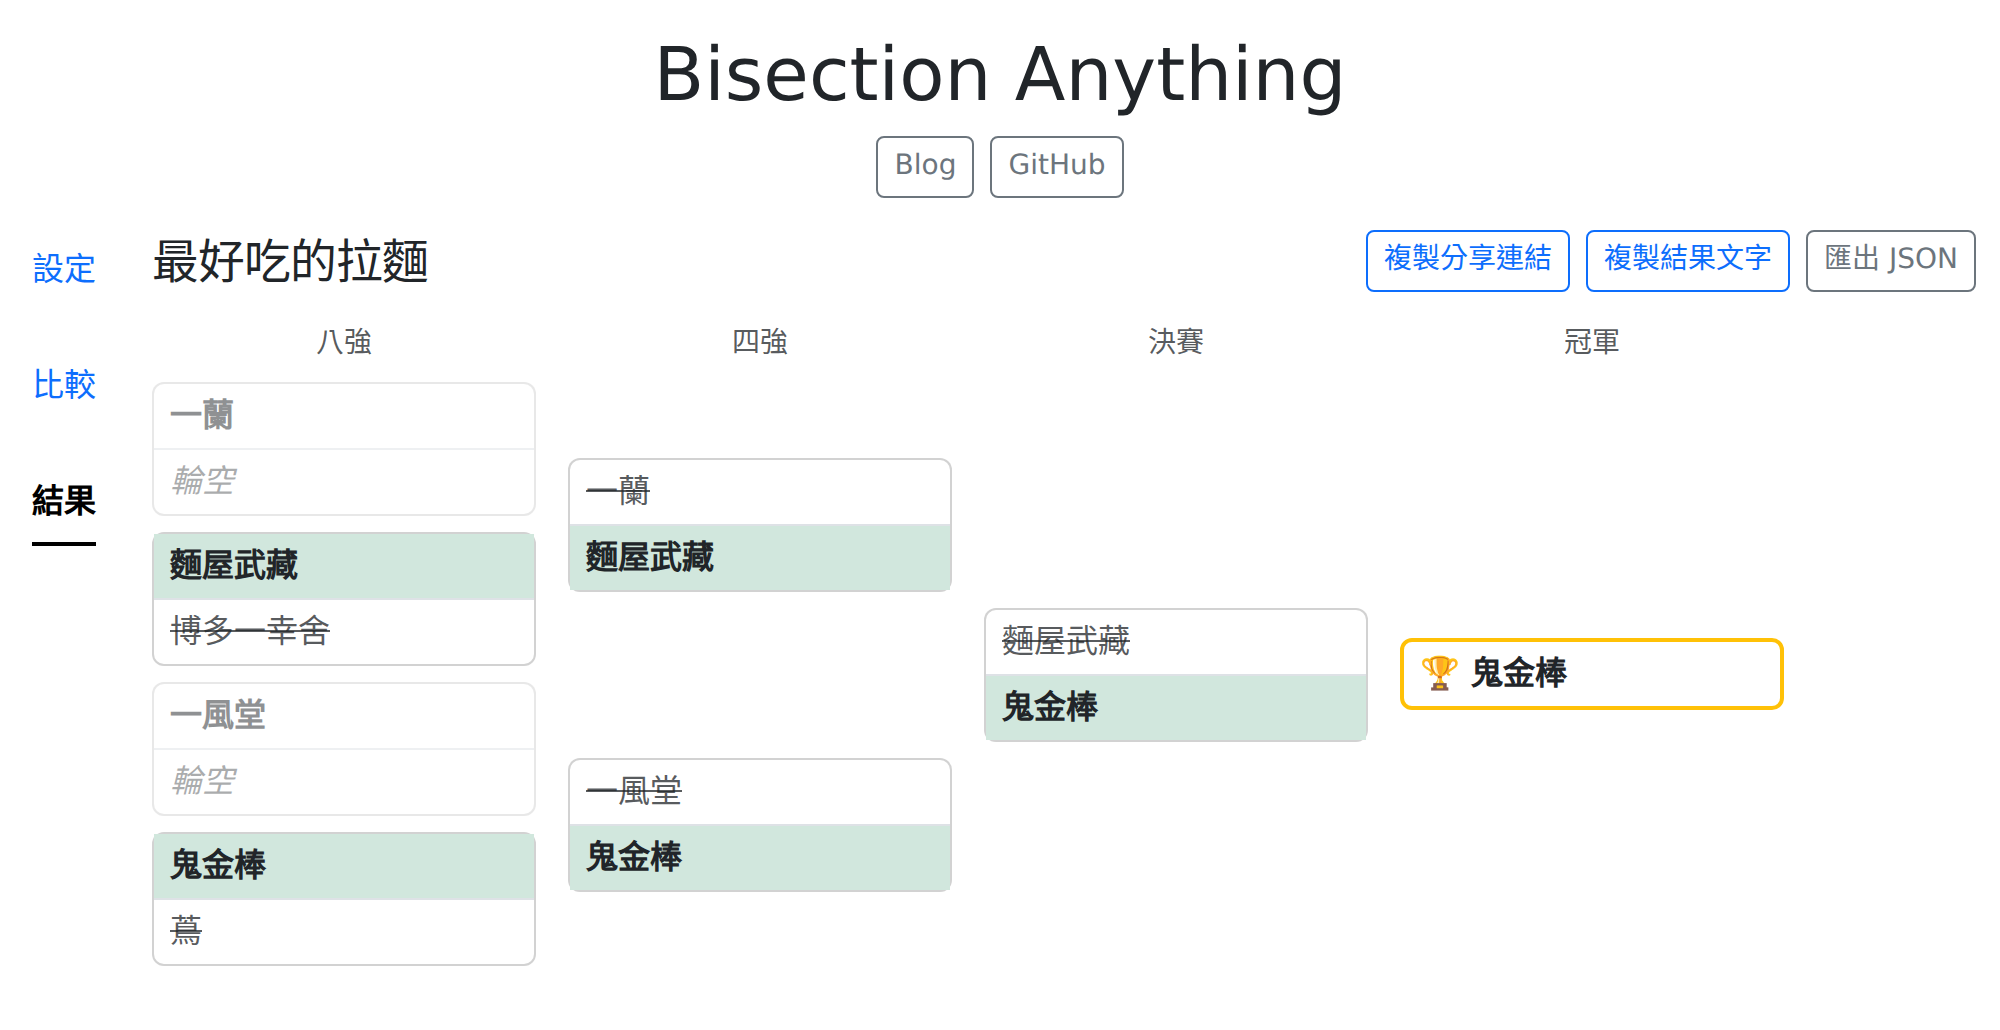
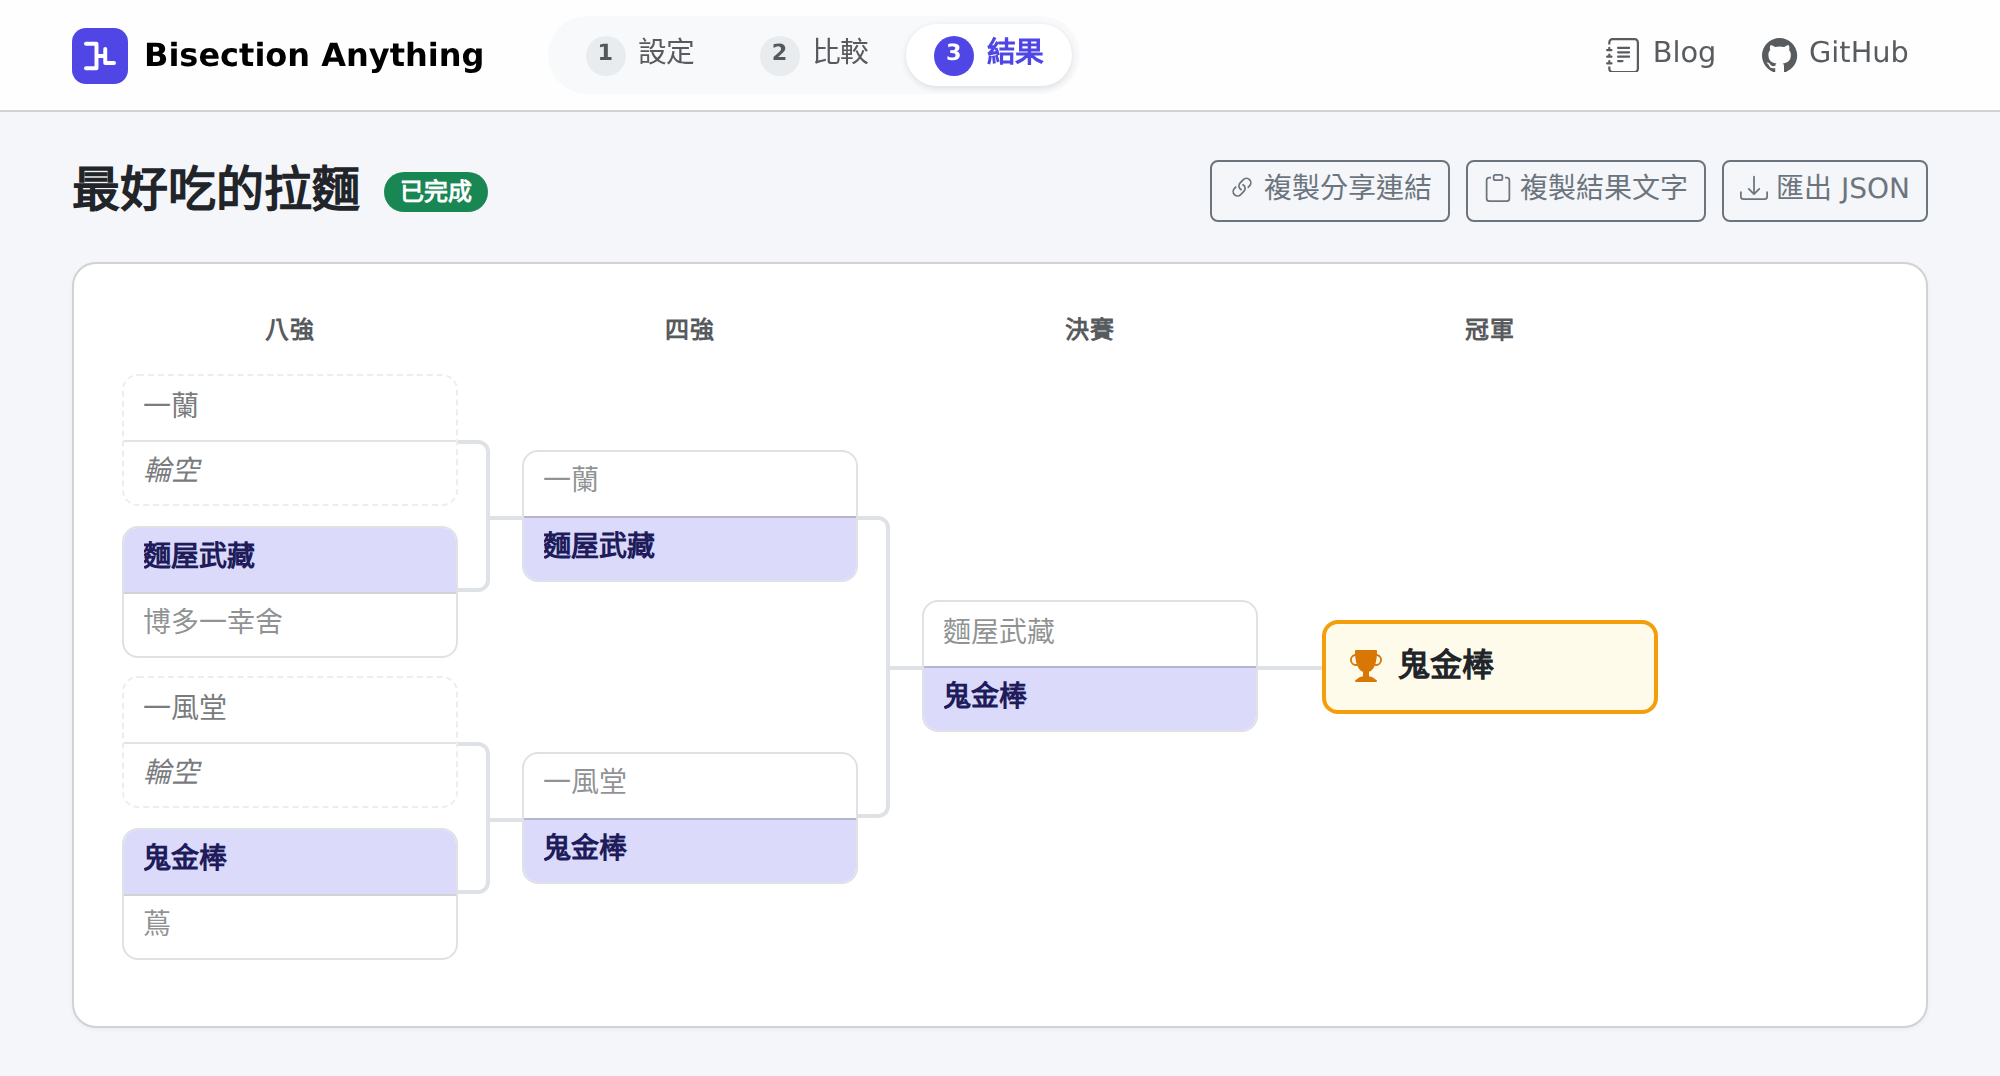
Update README screenshots and docs for the redesign
Retake the usage screenshots, describe the new bracket styling and step
switcher in the README, and document the theme and icon component in
docs/DEVELOPMENT.md.

diff --git a/README.md b/README.md
@@ -19,7 +19,7 @@
   項目種子越高，會在第一輪輪空、直接晉級。
 - **完整排序**：排出所有名次，比較次數較多（6 項最多 11 次、16 項最多 49 次）。
 
-勾選「隨機打亂順序」可以讓種子隨機分配。按鈕旁邊會顯示需要比較幾次，按「開始比較」。
+打開「隨機打亂順序」可以讓種子隨機分配。模式卡片上會顯示需要比較幾次，最後按「開始比較」。
 
 ![設定頁：輸入標題、項目並選擇模式](docs/images/1-config.png)
 
@@ -32,19 +32,19 @@
 
 ![比較頁：兩個選項與進度條](docs/images/2-compare.png)
 
-比完會顯示冠軍，按「看完整結果」查看結果頁。
+比完會顯示冠軍，按「看完整結果」查看結果頁。頁面上方的「1 設定 → 2 比較 → 3 結果」也可以隨時切換。
 
 ![比較完成](docs/images/3-finished.png)
 
 ### 3. 查看結果
 
-單淘汰模式會畫出淘汰賽樹狀圖：每一輪的勝者以綠色標示，落敗的劃線，輪空的位置會變淡。
+單淘汰模式會畫出淘汰賽樹狀圖：每一輪的勝者會標上底色，落敗的變灰，輪空的位置以虛線框表示，最右邊是冠軍。
 
 ![結果頁：淘汰賽樹狀圖](docs/images/4-bracket.png)
 
 ### 4. 完整排序
 
-想知道每個項目的名次，回到「設定」頁選「完整排序」，再按「開始比較」。
+想知道每個項目的名次，回到「設定」頁點選「完整排序」，再按「開始比較」。
 
 ![設定頁：選擇完整排序](docs/images/5-config-insertion.png)
 
@@ -52,7 +52,7 @@
 
 ![完整排序的比較頁](docs/images/6-compare-insertion.png)
 
-完成後結果頁會列出所有名次。
+完成後結果頁會列出所有名次，前三名以金、銀、銅色標示。
 
 ![結果頁：完整名次](docs/images/7-ranking.png)
 

diff --git a/docs/DEVELOPMENT.md b/docs/DEVELOPMENT.md
@@ -3,7 +3,11 @@
 ## 技術
 
 - Angular 22：standalone components、signals、zoneless change detection，所有元件都用 OnPush
-- Bootstrap 5.3（Sass，`src/styles.scss`）
+- Bootstrap 5.3（Sass，`src/styles.scss`）：用 `@use ... with (...)` 覆寫主色（`#4f46e5`）、圓角、字型；
+  共用的 `.panel`、`.page-header` 也定義在這裡
+- 圖示：`src/app/shared/icon.component.ts` 的 `<app-icon name="...">`，把用到的 Bootstrap Icons
+  SVG 直接寫在檔案裡，只打包實際用到的圖示。要加新圖示時，從
+  [Bootstrap Icons](https://icons.getbootstrap.com) 複製 `<svg>` 內的內容加進 `ICONS`
 - Vitest + jsdom 單元測試（`@angular/build:unit-test`）
 - 沒有後端；資料存在 localStorage
 
@@ -30,6 +34,8 @@ src/app/
 │   ├── insertion.ts      完整排序：二分插入排序、比較次數估算
 │   ├── share-codec.ts    分享連結的編碼（deflate + base64url）
 │   └── session-store.ts  signal 狀態、localStorage、JSON 匯出入、分享連結
+├── shared/
+│   └── icon.component.ts Bootstrap Icons 的 inline SVG 元件
 └── pages/
     ├── config/           設定頁
     ├── compare/          比較頁
